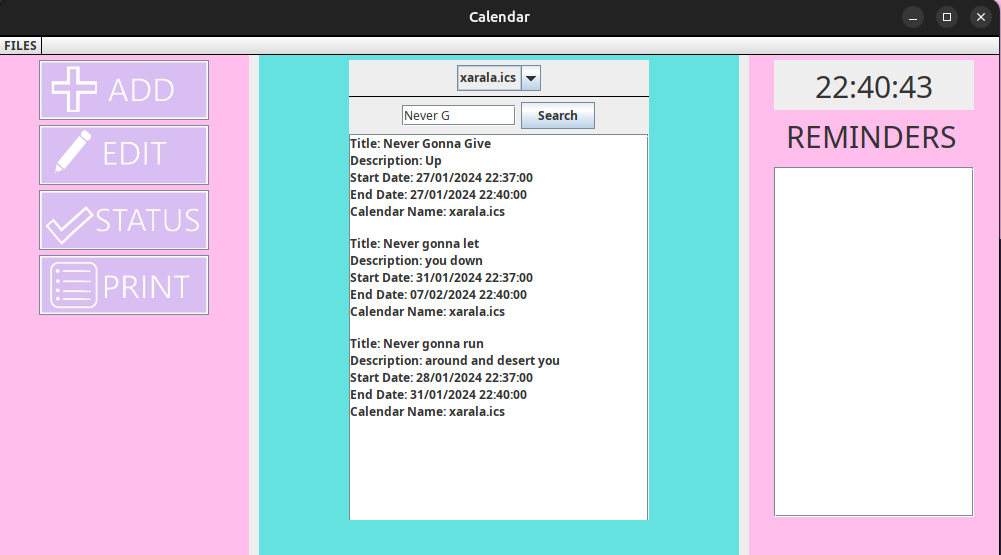
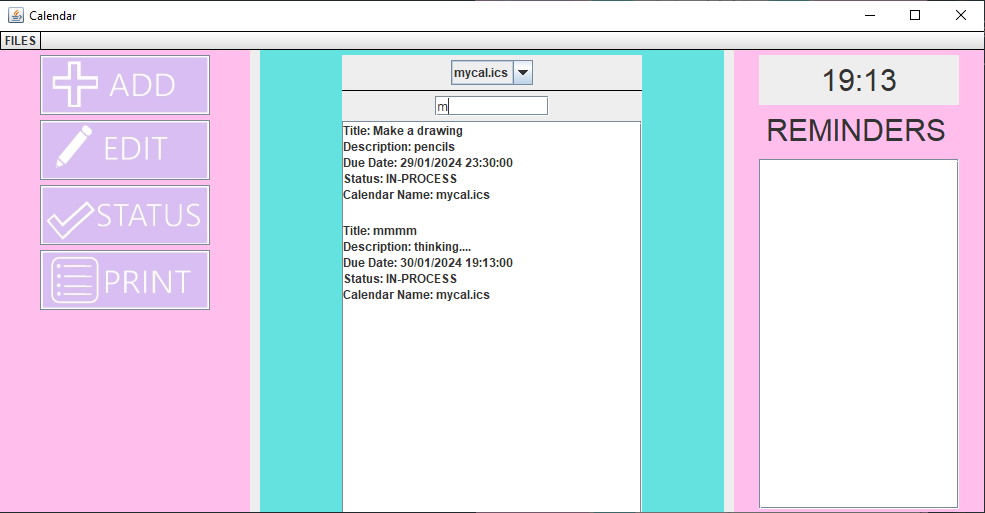
6911

Changed region(s): [[0.0, 0.0, 1.0, 1.0]]

diff --git a/src/main/java/GUI/EventManagement.java b/src/main/java/GUI/EventManagement.java
@@ -7,42 +7,32 @@ import javax.swing.*;
 import javax.swing.event.DocumentEvent;
 import javax.swing.event.DocumentListener;
 import java.awt.*;
-import java.awt.event.ActionEvent;
-import java.awt.event.ActionListener;
 import java.util.ArrayList;
 
 public class EventManagement extends JPanel {
-    private final String message;
+
     private final ArrayList<ICSFile> allFiles;
     private JList<JPanel> eventList;
     private final DefaultListModel<JPanel> listModel;
     private final JTextField enterTitle;
-    private final JButton searchTitle;
     private final SingleCalendarSelect calendarSelect;
 
-    public EventManagement(ArrayList<ICSFile> allFiles, String message){
+    public EventManagement(ArrayList<ICSFile> allFiles, String message) {
         setPreferredSize(new Dimension(300,460));
         this.allFiles = allFiles;
-        this.message = message;
         listModel = new DefaultListModel<>();
-        searchTitle = new JButton("Search");
         enterTitle = new JTextField(message,10);
         enterTitle.addFocusListener(new ClearTextFocusListener(message,enterTitle));
         calendarSelect = new SingleCalendarSelect(allFiles);
         setupUI();
     }
 
-    public void setupUI(){
-        if(enterTitle.getText().equals(message))
-            searchTitle.setEnabled(false);
-        if (calendarSelect.isEmpty()) {
-            searchTitle.setEnabled(false);
-        }else {
+    public void setupUI() {
+        if (!calendarSelect.isEmpty()) {
             calendarSelect.addActionListener(e -> fillEvents());
             calendarSelect.setSelectedIndex(0);
             enterTitle.getDocument().addDocumentListener(new LiveSearchListener());
         }
-        searchTitle.addActionListener(new ButtonListener());
         addComponents();
     }
 
@@ -53,7 +43,6 @@ public class EventManagement extends JPanel {
             setForeground(Color.BLACK);
         }});
         add(enterTitle);
-        add(searchTitle);
 
         eventList = new JList<>(listModel);
         eventList.setPreferredSize(new Dimension(230, 1));
@@ -73,30 +62,27 @@ public class EventManagement extends JPanel {
         add(scrollPane, BorderLayout.CENTER);
     }
 
-    public void fillEvents(){}
+    public void fillEvents() {}
 
-    public void findSelectedEvent(){}
+    public void findSelectedEvent() {}
 
     public void performLiveSearch() {
         if (eventList == null) return;
-        searchTitle.setEnabled(true);
         String searchText = enterTitle.getText().toLowerCase();
         listModel.clear();
         if (searchText.isEmpty()) {
             eventList.setPreferredSize(new Dimension(230, 1));
-            searchTitle.setEnabled(false);
             return;
         }
         search(searchText);
     }
 
-    public void search(String searchText){}
+    public void search(String searchText) {}
 
     public DefaultListModel<JPanel> getListModel() {return listModel;}
     public JList<JPanel> getEventList() {return eventList;}
     public ArrayList<ICSFile> getAllFiles() {return allFiles;}
     public SingleCalendarSelect getCalendarSelect() {return calendarSelect;}
-    public JTextField getEnterTitle() {return enterTitle;}
 
     private class LiveSearchListener implements DocumentListener {
         @Override
@@ -107,9 +93,4 @@ public class EventManagement extends JPanel {
         public void changedUpdate(DocumentEvent e) {}
     }
 
-    public static class ButtonListener implements ActionListener{
-        @Override
-        public void actionPerformed(ActionEvent e) {
-        }
-    }
 }

diff --git a/src/main/java/GUI/EditEventGUI.java b/src/main/java/GUI/EditEventGUI.java
@@ -5,7 +5,6 @@ import Models.Event;
 import com.toedter.calendar.JDateChooser;
 import javax.swing.*;
 import java.awt.*;
-import java.awt.event.ActionEvent;
 import java.util.ArrayList;
 
 public class EditEventGUI extends EventManagement {
@@ -49,12 +48,12 @@ public class EditEventGUI extends EventManagement {
         for (Event event : events) {
             if (event.getUuid().equals(uid)) {
                     eventToEdit = event;
-                    CreateEditModal();
+                    createEditModal();
                     break;
             }
         }
     }
-    private void CreateEditModal(){
+    private void createEditModal() {
         editPanel = new JPanel(new FlowLayout(FlowLayout.LEFT));
         editPanel.setPreferredSize(new Dimension(400, 300));
 
@@ -87,12 +86,10 @@ public class EditEventGUI extends EventManagement {
             endTimeSpinner.setValue(((Project) eventToEdit).getDue().getDateFormat());
         }
 
-        AddToPanel();
+        addToPanel();
     }
 
-    public void AddToPanel(){
-
-
+    public void addToPanel() {
         editPanel.add(new JLabel("NEW title of the event"));
         editPanel.add(titleScrollPane);
         editPanel.add(new JSeparator(SwingConstants.HORIZONTAL) {{
@@ -116,12 +113,12 @@ public class EditEventGUI extends EventManagement {
                 JOptionPane.OK_CANCEL_OPTION, JOptionPane.PLAIN_MESSAGE);
 
         if (response == JOptionPane.OK_OPTION) {
-           HandleOkResponse();
+           handleOkResponse();
         }
         getEventList().clearSelection();
     }
 
-    private void HandleOkResponse(){
+    private void handleOkResponse() {
         if((startDateChooser.getDate() == null && eventToEdit instanceof Appointment)   || endDateChooser.getDate() == null || titleField.getText().isEmpty()){
             JOptionPane.showMessageDialog(MainPageGUI.getPrintPanel(), "Please fill in all the fields", "Error", JOptionPane.ERROR_MESSAGE);
             return;
@@ -157,19 +154,4 @@ public class EditEventGUI extends EventManagement {
         performLiveSearch();
     }
 
-    private class ButtonListener extends EventManagement.ButtonListener {
-        @Override
-        public void actionPerformed(ActionEvent e){
-            getListModel().clear();
-            for (Event event : events) {
-                if (event.getTitle().equalsIgnoreCase(getEnterTitle().getText())) {
-                    getListModel().addElement(event.getPanel());
-                }
-            }
-
-            if (getListModel().isEmpty()) {
-                JOptionPane.showMessageDialog(MainPageGUI.getPrintPanel(), "There are no events with title " + getEnterTitle().getText(), "Error", JOptionPane.ERROR_MESSAGE);
-            }
-        }
-    }
 }

diff --git a/src/main/java/GUI/ChangeStatusGUI.java b/src/main/java/GUI/ChangeStatusGUI.java
@@ -4,7 +4,6 @@ import Models.Project;
 import net.fortuna.ical4j.model.property.Status;
 import javax.swing.*;
 import java.awt.*;
-import java.awt.event.*;
 import java.util.ArrayList;
 
 public class ChangeStatusGUI extends EventManagement {
@@ -29,7 +28,7 @@ public class ChangeStatusGUI extends EventManagement {
         projects = getAllFiles().get(getCalendarSelect().getSelectedIndex()).getCalendar().getProjects();
         performLiveSearch();
     }
-
+    @Override
     public void findSelectedEvent() {
         JPanel selectedPanel = getListModel().getElementAt(getEventList().getSelectedIndex());
 
@@ -52,22 +51,6 @@ public class ChangeStatusGUI extends EventManagement {
         }
         project.setPanel();
         performLiveSearch();
-    }
-    public class ButtonListener extends EventManagement.ButtonListener {
-        @Override
-        public void actionPerformed(ActionEvent e) {
-            // Custom implementation for the button click
-            getListModel().clear();
-            for (Project project : projects) {
-                if (project.getTitle().equalsIgnoreCase(getEnterTitle().getText())) {
-                    getListModel().addElement(project.getPanel());
-                }
-            }
-
-            if (getListModel().isEmpty()) {
-                JOptionPane.showMessageDialog(MainPageGUI.getPrintPanel(), "There are no Projects with title " + getEnterTitle().getText(), "Error", JOptionPane.ERROR_MESSAGE);
-            }
-        }
     }
 
 }

diff --git a/src/main/java/Models/OurDateTime.java b/src/main/java/Models/OurDateTime.java
@@ -17,8 +17,7 @@ public class OurDateTime {
     private DateTime icsFormat;
     private long calculationFormat ,calculationFormat30;
     private Date dateFormat;
-    //constructor to create an ourDateTime object with the values we give
-    // it gives us nice format versions of  datetime which we use
+    //constructor that creates an OurDateTime object with the given values from the user, for the new events
     public OurDateTime (int year, int month, int day, int hour, int minute) {
         this.year = year;
         this.month = month;
@@ -33,12 +32,8 @@ public class OurDateTime {
         setIcsFormat();
         setDateFormat();
     }
-    /**
-     * constructor that creates a OurDateTime object that contains the current datetime change this
-     * to change the current time
-     */
+    //constructor that's used in ReminderGUI
     public OurDateTime(LocalDateTime realTime) {
-
         this.year = realTime.getYear();
         this.month = realTime.getMonthValue();
         this.day = realTime.getDayOfMonth();
@@ -52,7 +47,7 @@ public class OurDateTime {
         setIcsFormat();
         setDateFormat();
     }
-
+//constructor that's used in the OurCalendar class to print the events, based on the liveDateTime
     public OurDateTime() {
         TimeTeller teller = TimeService.getTeller();
         LocalDateTime realTime = teller.now();

diff --git a/src/main/java/GUI/MainPageGUI.java b/src/main/java/GUI/MainPageGUI.java
@@ -110,10 +110,10 @@ public class MainPageGUI extends JFrame {
 
     private void createButtons(){
 
-        this.newEventButton = createButton("New Event", "Add.jpg", "add an event to a calendar");
-        this.editEventButton = createButton("Edit Event","Edit.jpg","Edit an event from a calendar");
-        this.changeProjectStatusButton = createButton("<html>Change Projects<br /><center>Status</center></html>","Status.jpg", " Change the condition of a project from a calendar");
-        this.printEventButton = createButton("Print Event","Print.jpg","See events from calendars");
+        this.newEventButton = createButton("New Event", "buttonsForMenuPanel/Add.jpg", "add an event to a calendar");
+        this.editEventButton = createButton("Edit Event", "buttonsForMenuPanel/Edit.jpg","Edit an event from a calendar");
+        this.changeProjectStatusButton = createButton("<html>Change Projects<br /><center>Status</center></html>", "buttonsForMenuPanel/Status.jpg", " Change the condition of a project from a calendar");
+        this.printEventButton = createButton("Print Event", "buttonsForMenuPanel/Print.jpg","See events from calendars");
     }
 
     private JButton createButton(String text, String image, String toolTip) {

diff --git a/documentation/GUI/ChangeStatusGUI_doc.md b/documentation/GUI/ChangeStatusGUI_doc.md
@@ -1,24 +1,14 @@
-# *ChangeStatusGUI class extends JPanel*
+# *ChangeStatusGUI class extends EventManagement*
 
 ## Fields:
-- ArrayList<ICSFile> allFiles
-- JList<JPanel> projectList
-- DefaultListModel<JPanel> listModel
-- JTextField enterTitle
-- JButton searchTitle
-- SingleCalendarSelect calendarSelect
 - ArrayList<Project> projects
 
 ## Methods:
-- ChangeStatusGUI(ArrayList<ICSFile> allFiles): **constructor that creates the fields to change the status of a project and a button that changes the status of the project with the help of an actionListener and adds them to the PrintPanel.**
-- setupUI():
-- addComponents():
-- performLiveSearch():
-- fillProjects():
-- FindSelectedProject():
-- handleSelection(Project project):
+- ChangeStatusGUI(ArrayList<ICSFile> allFiles): **constructor that creates the fields with the help of the EventManagement's constructor.**
+- search(String searchText): **searches for the projects that match the search text and when its found, it shows the project to the List.**
+- fillEvents(): **fills the ArrayList projects with the projects of the files.**
+- findSelectedEvent(): **finds the selected project and changes status with the method handleSelection.**
+- handleSelection(Project project): **when a project is selected, it changes the status of the project.**
 
-### Inner Class: ButtonListener implements ActionListener
-- actionPerformed(ActionEvent e): 
-
-### Inner Class: LiveSearchListener implements DocumentListener
+## Usage:
+- This class is used to change the status of a project.

diff --git a/documentation/GUI/EventManagement_doc.md b/documentation/GUI/EventManagement_doc.md
@@ -1,0 +1,28 @@
+# *EventManagement class extends JPanel*
+
+## Fields:
+- String message
+- ArrayList<ICSFile> allFiles
+- private JList<JPanel> eventList
+- DefaultListModel<JPanel> listModel
+- JTextField enterTitle
+- JButton searchTitle
+- SingleCalendarSelect calendarSelect
+
+## Methods:
+- EventManagement(ArrayList<ICSFile> allFiles, String message): **constructor that creates the fields.**
+- setupUI(): **sets up the UI of the JPanel.**
+- ddComponents(): **adds the components to the JPanel.**
+- fillEvents(): **fills the ArrayList projects with the projects of the files.**
+- findSelectedEvent(): **finds the selected project and changes status with the method handleSelection.**
+- performLiveSearch(): **searches for the projects that match the search text and when its found, it shows the project to the List.**
+- search(String searchText): **searches for the projects that match the search text and when its found, it shows the project to the List.**
+
+### Inner class: LiveSearchListener implements DocumentListener
+- insertUpdate(DocumentEvent e): **calls the method performLiveSearch.**
+- removeUpdate(DocumentEvent e): **calls the method performLiveSearch.**
+- changedUpdate(DocumentEvent e)
+- **This class is used for the Live searching of a title.**
+
+## Usage:
+- This class is used to manage the events of the calendar and is a superclass that gets extended by ChangeStatusGUI and EditEventsGUI.

diff --git a/documentation/GUI/EditEventGUI_doc.md b/documentation/GUI/EditEventGUI_doc.md
@@ -1,0 +1,27 @@
+# *EditEventGUI class extends EventManagement*
+
+## Fields:
+- Event eventToEdit
+- ArrayList<Event> events
+- JTextArea titleField
+- JTextArea descriptionField
+- JDateChooser endDateChooser = null
+- JDateChooser startDateChooser
+- JSpinner startTimeSpinner
+- JSpinner endTimeSpinner
+- JScrollPane titleScrollPane
+- JScrollPane descriptionScrollPane
+- JPanel editPanel
+
+## Methods:
+- EditEventGUI(ArrayList<ICSFile> allFiles): **constructor that creates the fields with the help of the EventManagement's constructor.**
+- search (String searchText): **searches for the events that match the search text and when its found, it shows the event to the List.**
+- fillEvents(): **fills the ArrayList events with the events of the files.**
+- findSelectedEvent(): **finds the selected event and shows it to the editPanel.**
+- createEditModal(): **creates the editPanel.**
+- initializeFields(): **initializes the fields of the editPanel and sets sizes text areas so the user can change the fields of the event.**
+- addToPanel(): **adds the fields to the editPanel.**
+- handleOkResponse(): **when the user presses the ok button, it changes the fields of the event.**
+
+## Usage:
+- This class is used to edit an event that's being searched by the user.

diff --git a/documentation/GUI/CurrentTimeGUI_doc.md b/documentation/GUI/CurrentTimeGUI_doc.md
@@ -5,9 +5,9 @@
 - LocalDateTime currentTime
 
 ## Methods:
-- CurrentTimeGUI(): **sets the size, adds a timeLabel calls and a time teller with a TimeListener.**
+- CurrentTimeGUI(): **constructor that sets the size, adds a timeLabel calls and a time teller with a TimeListener.**
+- updateAndDisplayTime(LocalDateTime dateTime): **makes a formatter for the hour and minutes to run in the ReminderPanel.**
 - timeChanged(TimeEvent timeEvent): **updates the currentTime and prints it in the timeLabel.**
-- updateTimeLabel(LocalDateTime dateTime): **makes a formatter for the hour,time and minutes to run in the ReminderPanel.**
 
 ## Usage:
 - This class is responsible for the current time panel. It prints the live time in the ReminderPanel.

diff --git a/documentation/Models/OurDateTime_doc.md b/documentation/Models/OurDateTime_doc.md
@@ -11,9 +11,9 @@
 ## OurDateTime Class General Information
 - This class has :
     - `3 constructor`
-      - one that sets a `specific DateTime` from the user for the events
-      - one that sets the `current real or custom DateTime`
-      - and one for the live time
+      - one that sets a specific DateTime from the user for the events
+      - one that's used for the ReminderGUI
+      - and one for the live time that's used for OurCalendar
     - Setters and Getters
     - toString()
 - In this class we have the field:

diff --git a/ReadMe.md b/ReadMe.md
@@ -37,7 +37,7 @@ When you press the ADD button you are going to be prompted with 2 options:
 - *Create appointment*
 - *Create project*
 
-![Local Image](src/main/resources/screenshotsForReadme/ADD.png)
+![Local Image](src/main/resources/screenshotsForReadme/Add.png)
 
 When you press one of the two buttons and fill in the required information, then select one of the calendars
 that you have already loaded to save the new event.To create the new event press the button Create.
